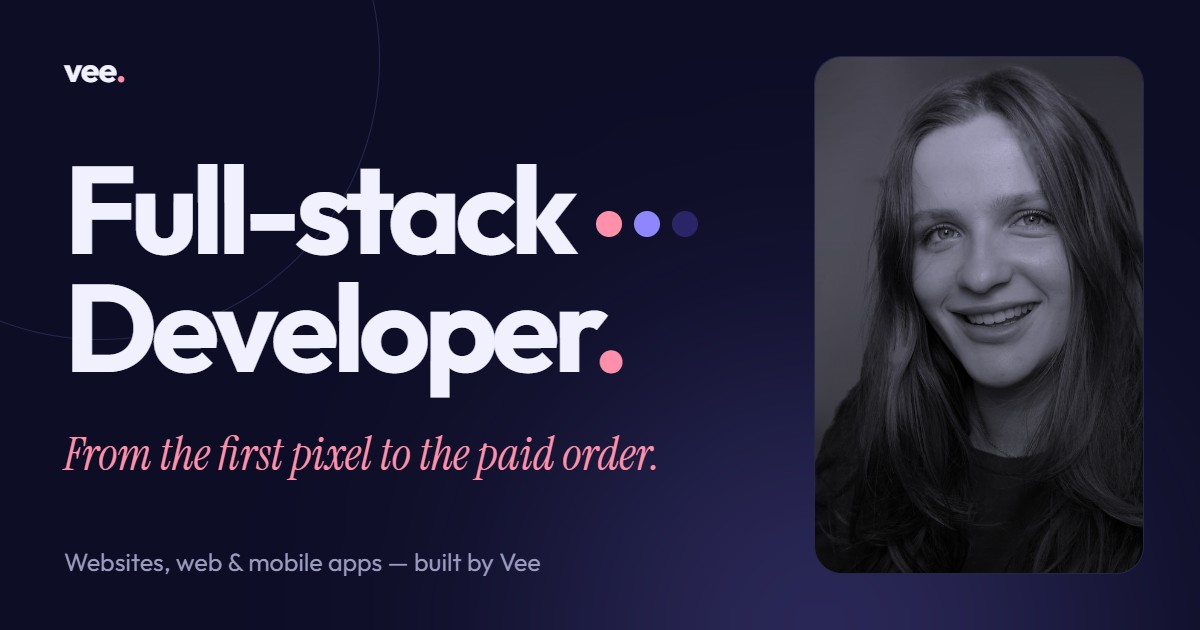
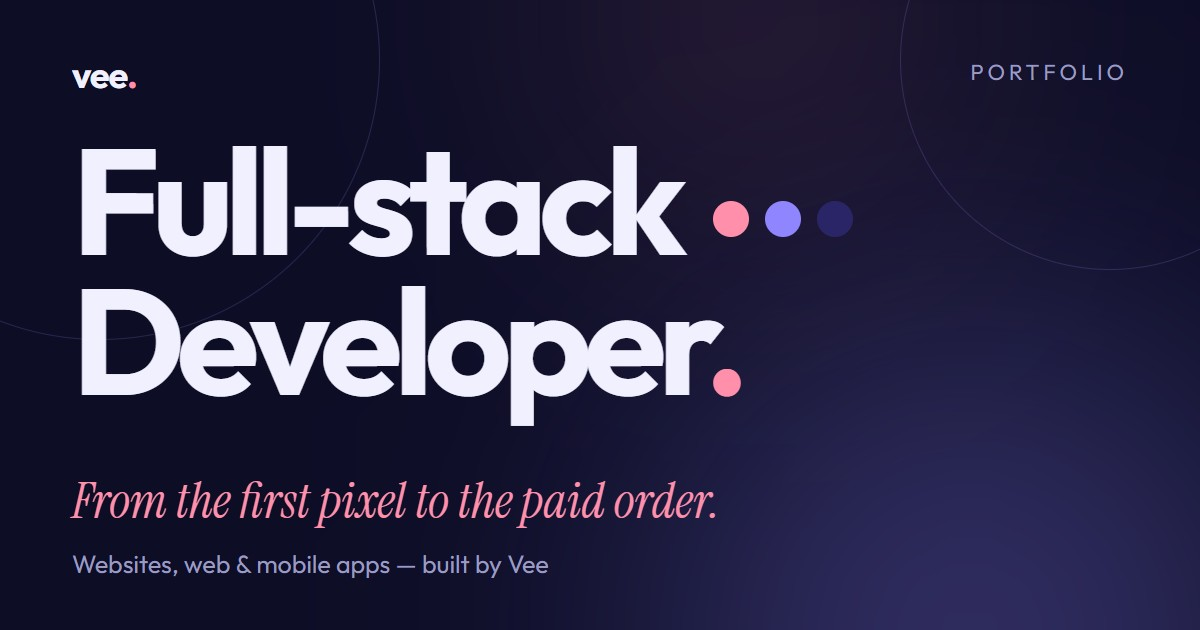
Link preview card without photo

diff --git a/index.html b/index.html
@@ -9,7 +9,7 @@
 <meta property="og:title" content="Vee — Full-stack developer">
 <meta property="og:description" content="Websites, web &amp; mobile apps with payments and data — designed, built and handed over by Vee.">
 <meta property="og:url" content="https://1eee-ui.github.io/vee-portfolio/">
-<meta property="og:image" content="https://1eee-ui.github.io/vee-portfolio/img/og.jpg">
+<meta property="og:image" content="https://1eee-ui.github.io/vee-portfolio/img/og.jpg?v=2">
 <meta property="og:image:width" content="1200">
 <meta property="og:image:height" content="630">
 <meta name="twitter:card" content="summary_large_image">
